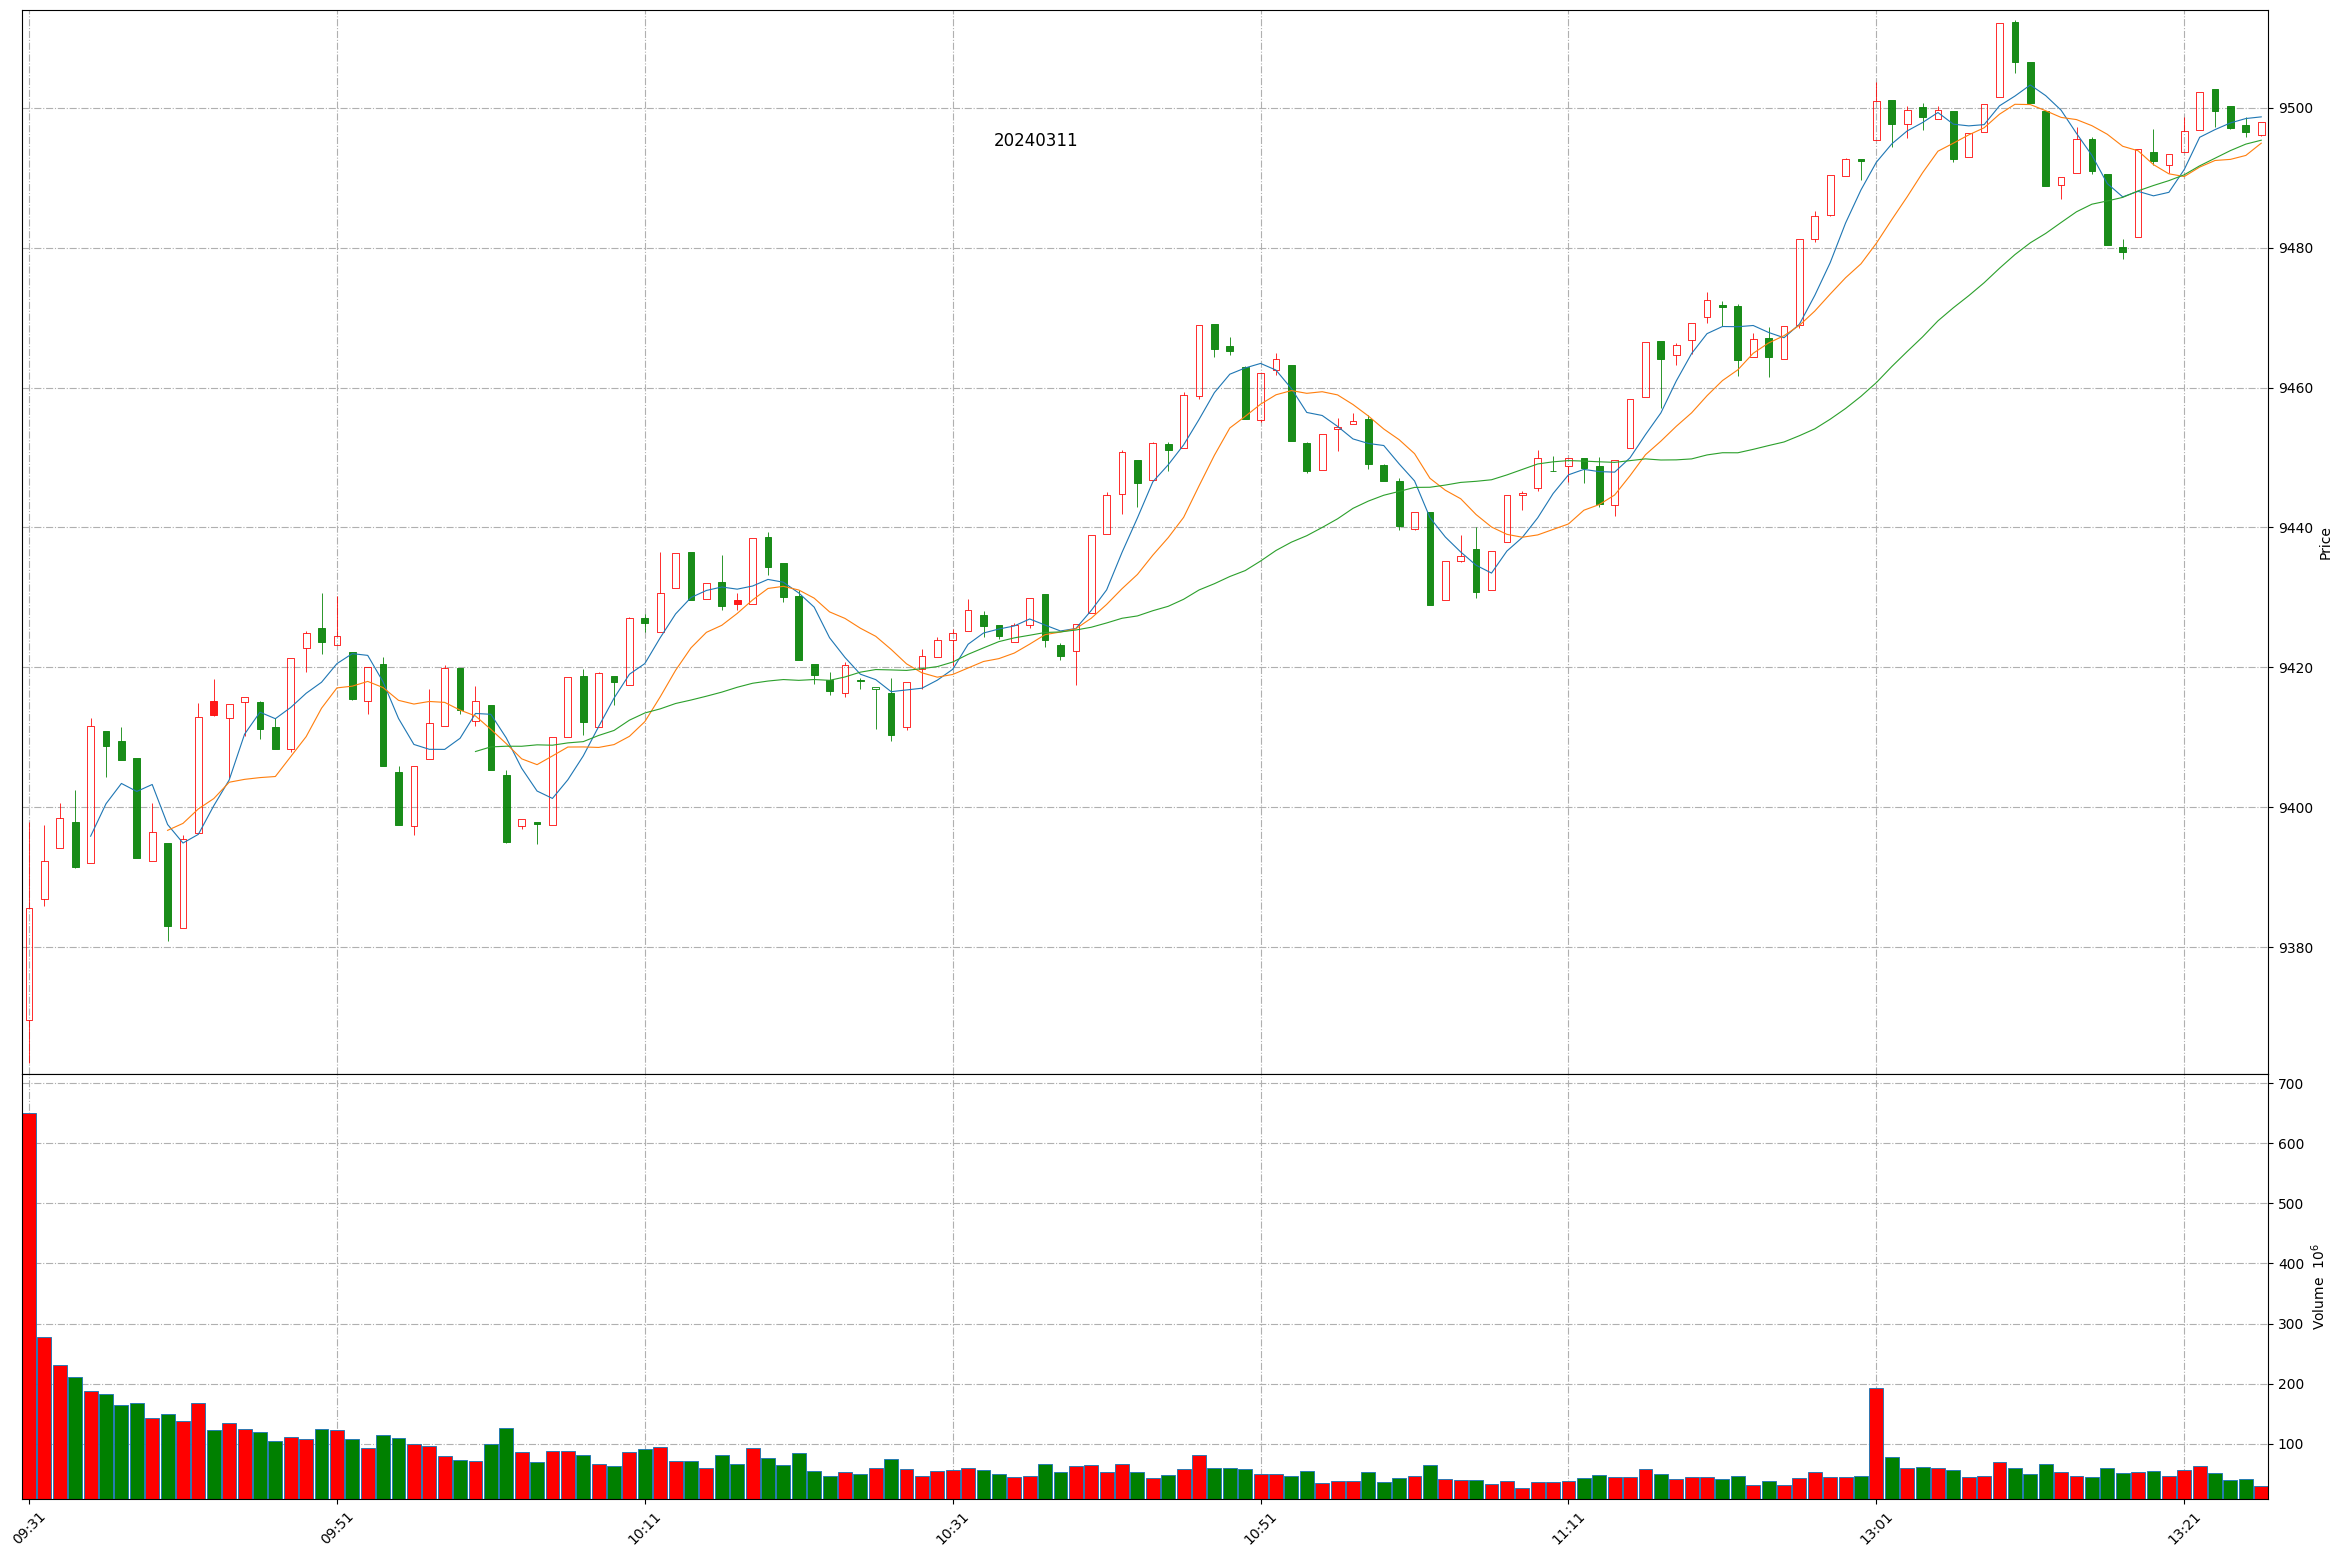
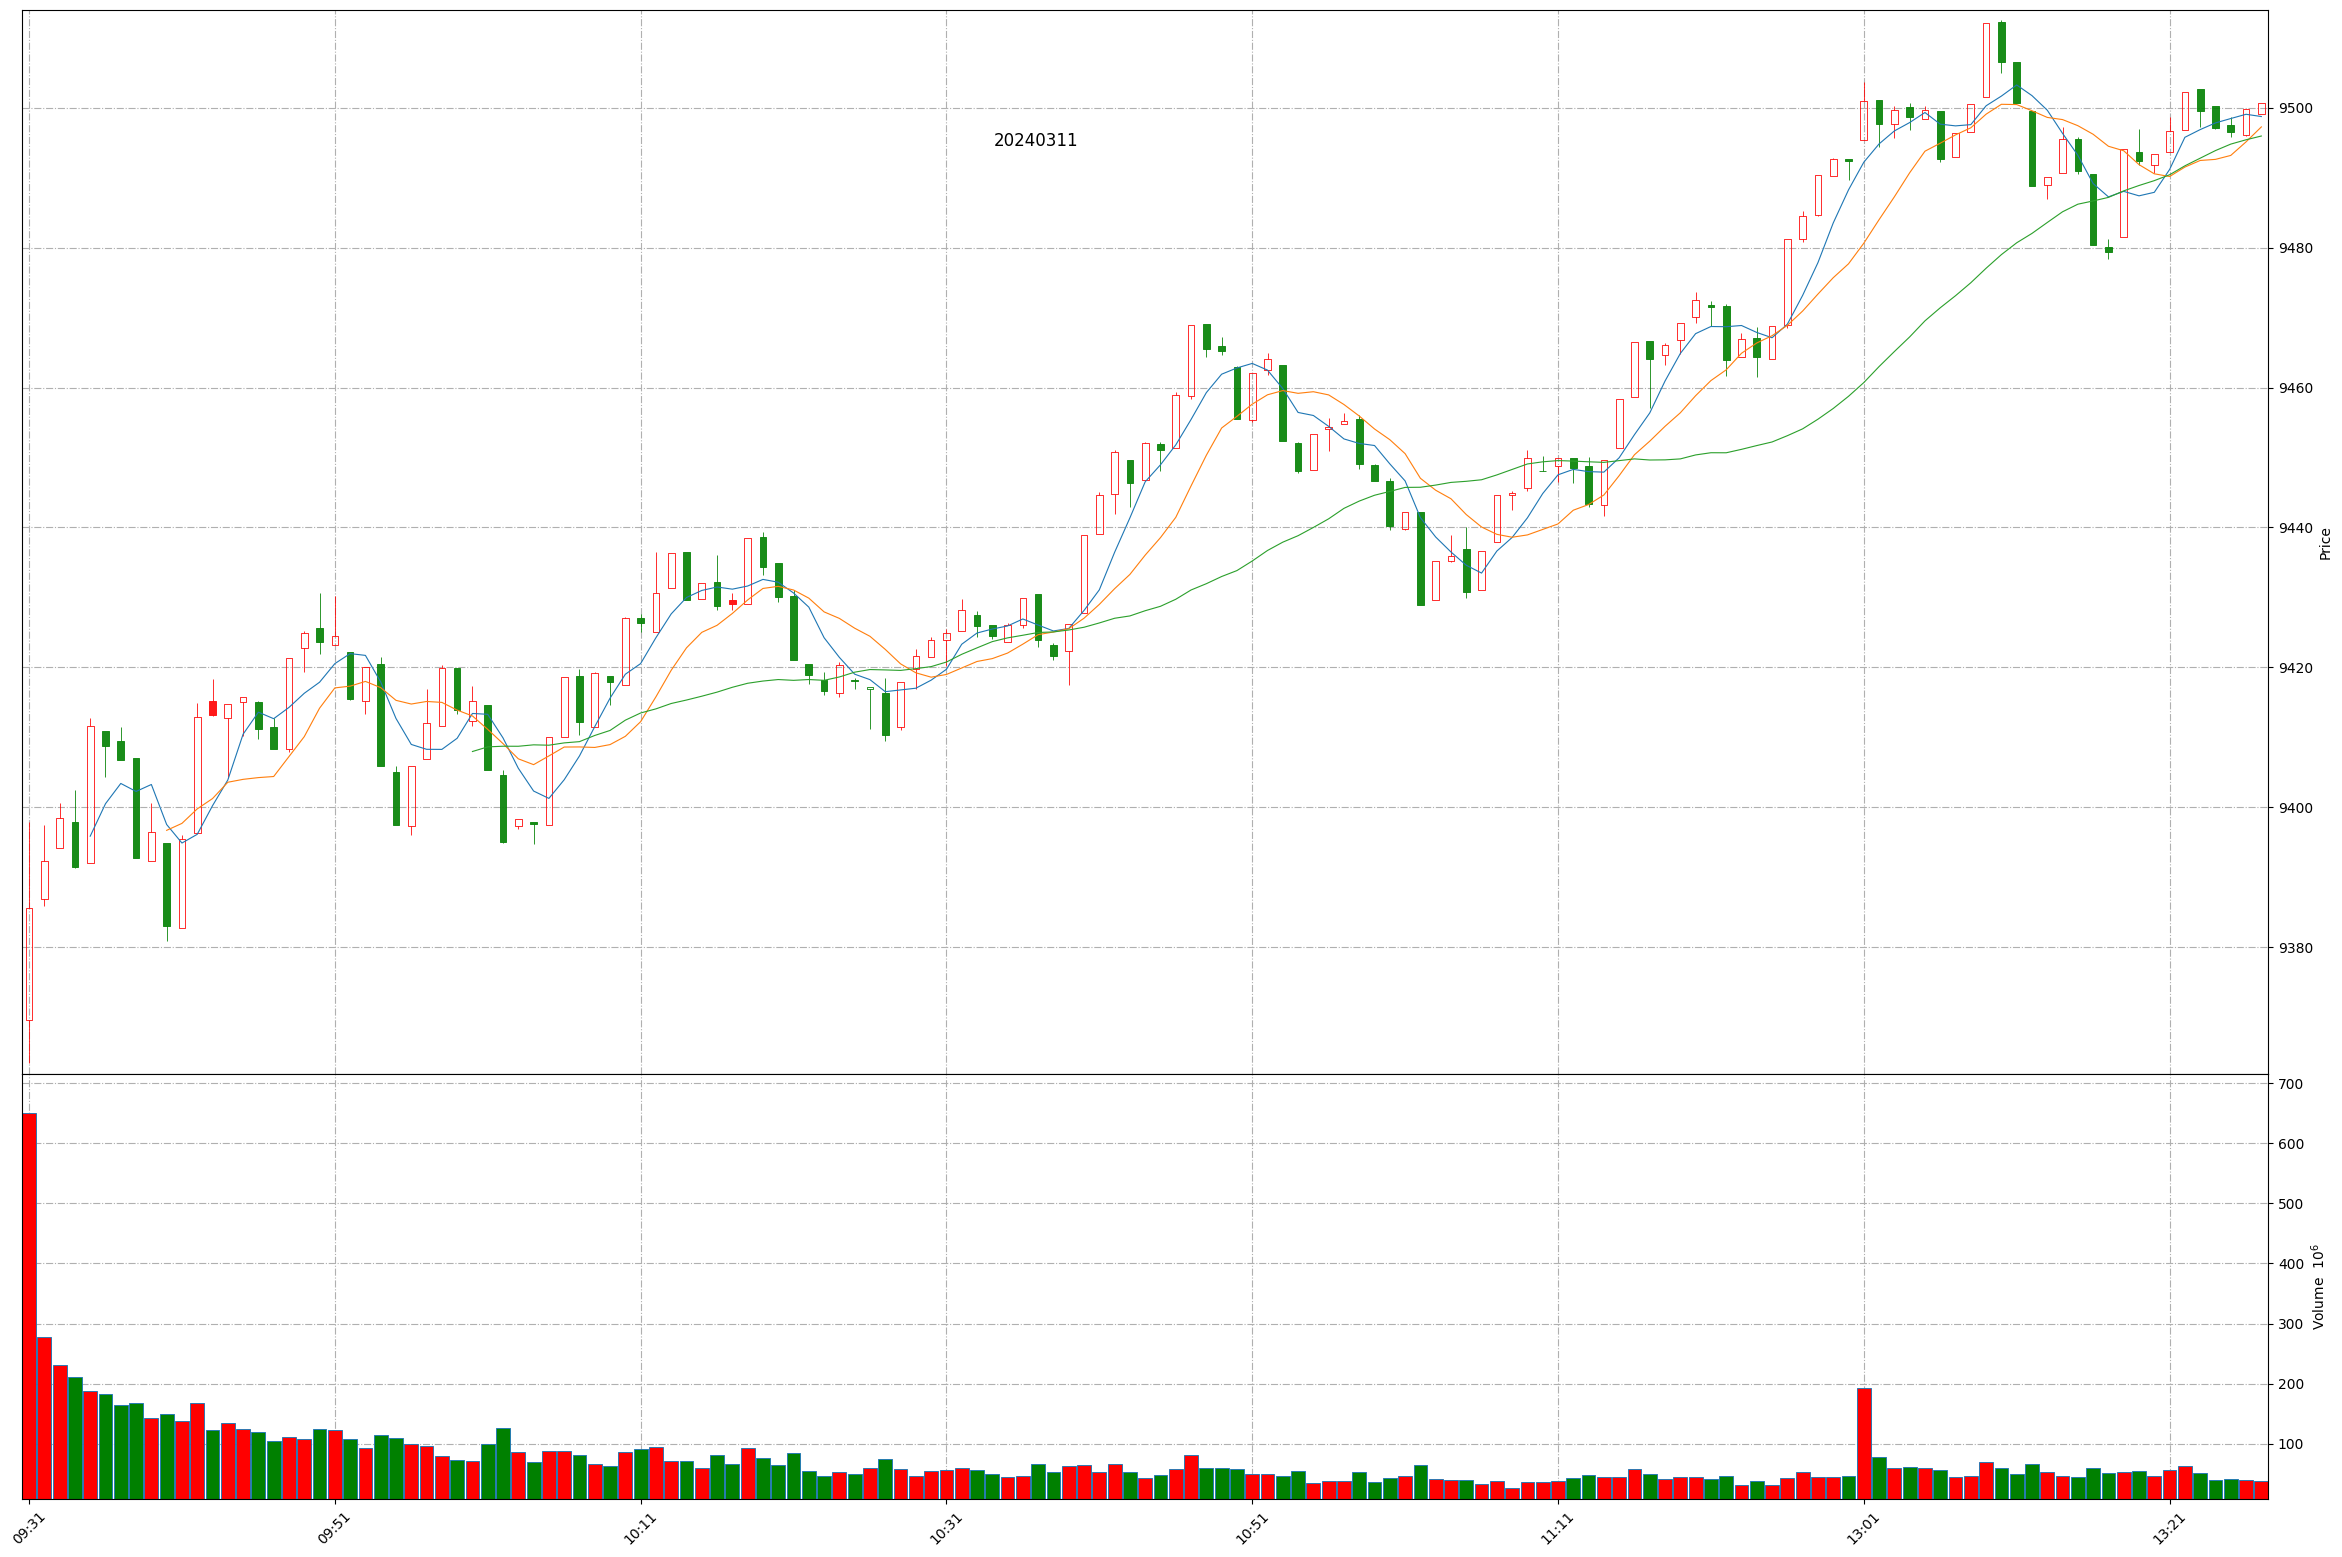
Github action update at 2024-03-11 13:27:03.

diff --git a/README.md b/README.md
@@ -1,11 +1,11 @@
 
 # Daily-A-share-market-quotes 每日 A 股指数（5min 更新）- 20240311
 
-### 上证指数 20240311 13:25
+### 上证指数 20240311 13:27
 ![](./fig/2024/3/20240311-sh000001.png)
 
-### 深证成指 20240311 13:25
+### 深证成指 20240311 13:27
 ![](./fig/2024/3/20240311-sz399001.png)
 
-### 北证50 20240311 13:25
+### 北证50 20240311 13:27
 ![](./fig/2024/3/20240311-bj899050.png)
